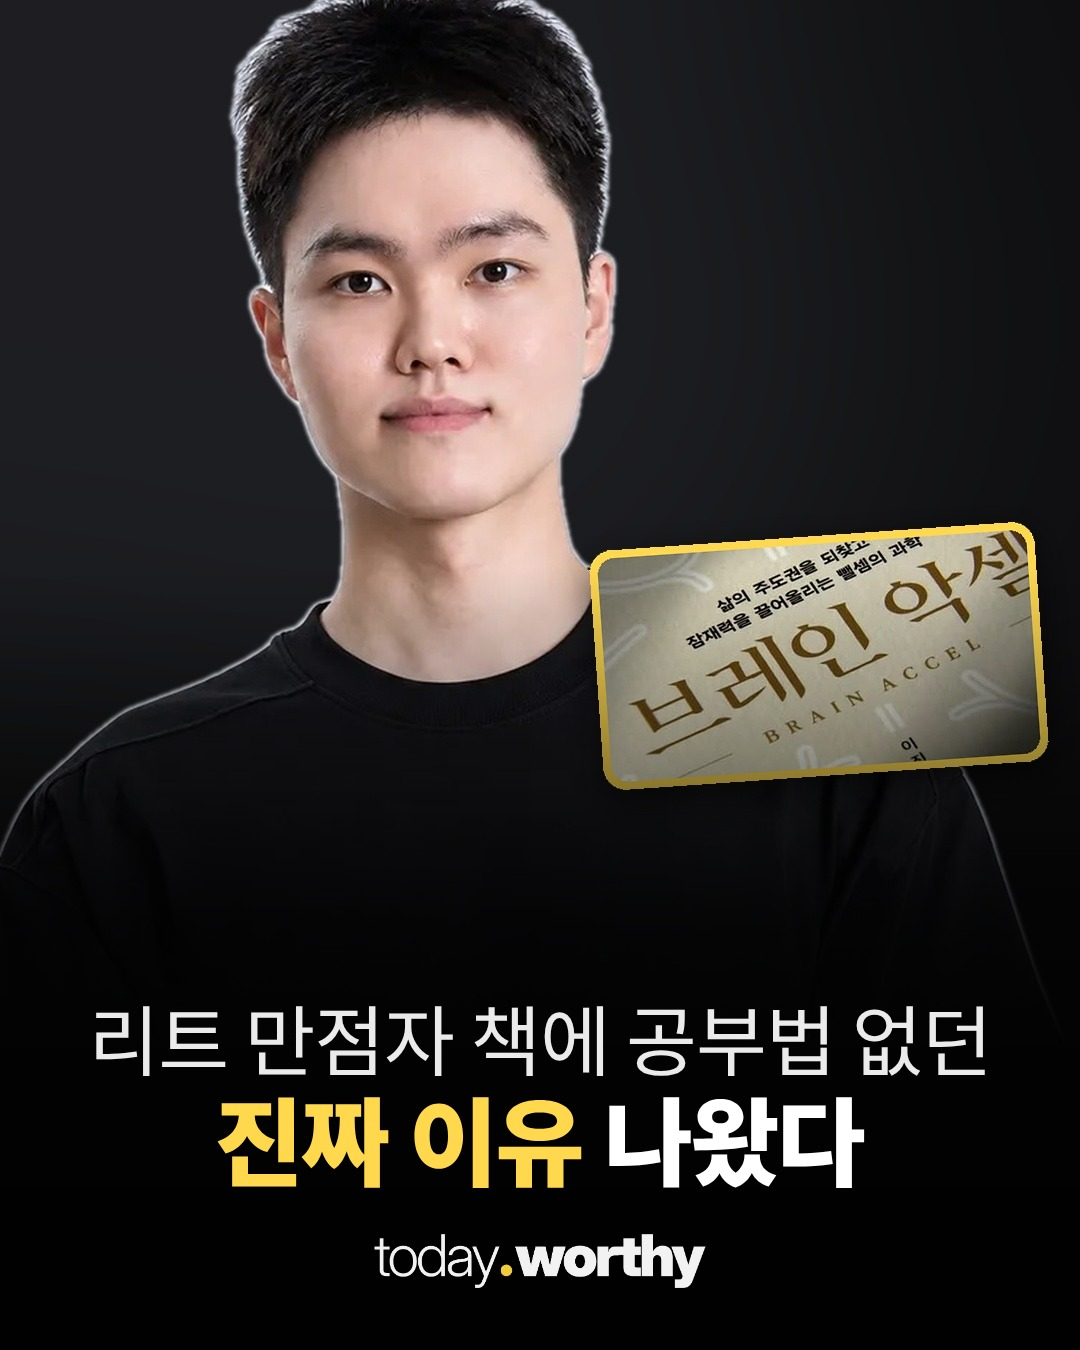
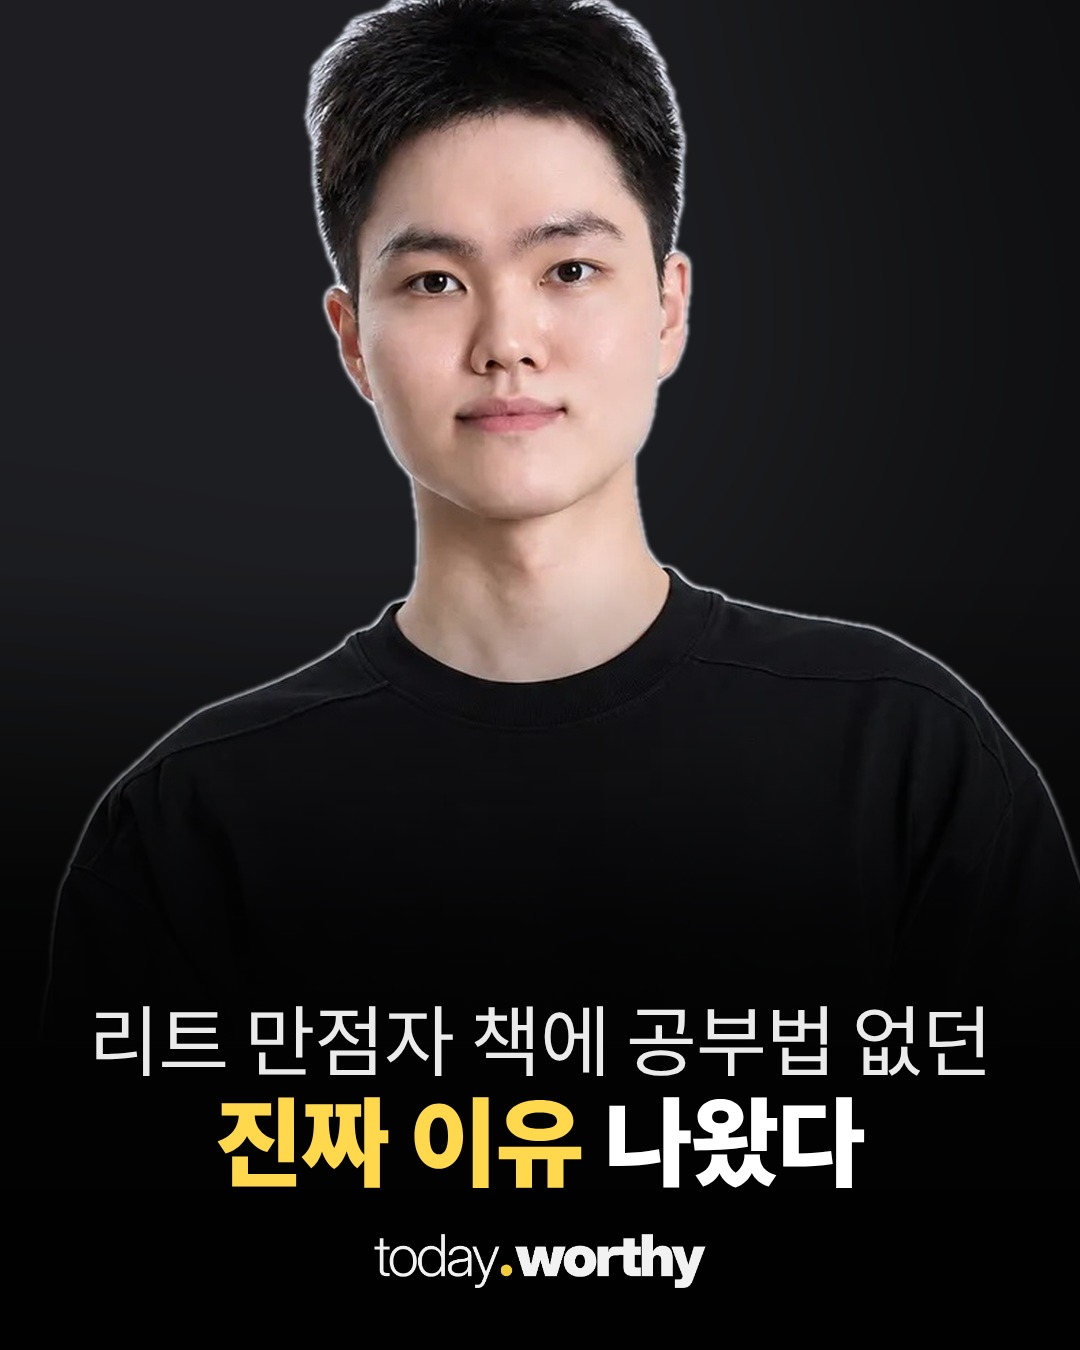
booktalk: 표지 책 카드 빼고 인물만
Claude-Session: https://claude.ai/code/session_01FGsw5S4nGrZdCJo7qBU1wE

diff --git a/media/20261127-booktalk/make_cover.py b/media/20261127-booktalk/make_cover.py
@@ -1,4 +1,4 @@
-"""20261127-booktalk 표지 배경: 인물 사진(밝은 배경 지우고 어두운 바탕) + 오른쪽 '브레인 악셀' 책 카드(JTBC 화면)."""
+"""20261127-booktalk 표지 배경: 인물 사진(밝은 배경 지우고 어두운 바탕) (책 카드 없음 — 다른 계정 동그라미 따라 하지 않음)."""
 from pathlib import Path
 import numpy as np
 from PIL import Image, ImageDraw, ImageFilter, ImageEnhance
@@ -12,20 +12,10 @@ ps = p.resize((pw, ph), Image.LANCZOS); ms = mi.resize((pw, ph), Image.LANCZOS)
 cv = Image.new("RGB", (W, H), (14, 14, 16))
 glow = Image.new("L", (W, H), 0); ImageDraw.Draw(glow).ellipse((-200, -150, 900, 800), fill=90); glow = glow.filter(ImageFilter.GaussianBlur(160))
 cv = Image.composite(Image.new("RGB", (W, H), (58, 60, 66)), cv, glow)
-cv.paste(ps, (-260, -40), ms)
+cv.paste(ps, ((W - pw) // 2, -40), ms)
 g = Image.new("L", (W, H), 0); d = ImageDraw.Draw(g)
 for y in range(780, 1050): d.line((0, y, W, y), fill=int(255 * (y - 780) / 270))
 for y in range(1050, H): d.line((0, y, W, y), fill=255)
 cv = Image.composite(Image.new("RGB", (W, H), (12, 12, 14)), cv, g).convert("RGBA")
-fr = Image.open(D / "cand/fr/raw132.jpg").convert("RGB")
-bk = fr.crop((40, 50, 520, 300)); cw = 430
-bk = ImageEnhance.Sharpness(bk.resize((cw, round(bk.height * cw / bk.width)), Image.LANCZOS)).enhance(1.4)
-pad = 8; card = Image.new("RGBA", (cw + 2 * pad, bk.height + 2 * pad), (0, 0, 0, 0))
-ImageDraw.Draw(card).rounded_rectangle((0, 0, card.width - 1, card.height - 1), 22, fill=(255, 216, 77, 255))
-mk = Image.new("L", bk.size, 0); ImageDraw.Draw(mk).rounded_rectangle((0, 0, bk.width - 1, bk.height - 1), 16, fill=255)
-card.paste(bk, (pad, pad), mk); card = card.rotate(4, expand=True, resample=Image.BICUBIC)
-x, y = W - card.width - 30, 520
-sh = Image.new("RGBA", (card.width + 80, card.height + 80), (0, 0, 0, 0)); sh.paste((0, 0, 0, 170), (40, 52), card.split()[3]); sh = sh.filter(ImageFilter.GaussianBlur(18))
-cv.alpha_composite(sh, (x - 40, y - 40)); cv.alpha_composite(card, (x, y))
 cv.convert("RGB").save(D / "cand/cover_bg.jpg", quality=94)
 print("ok")
